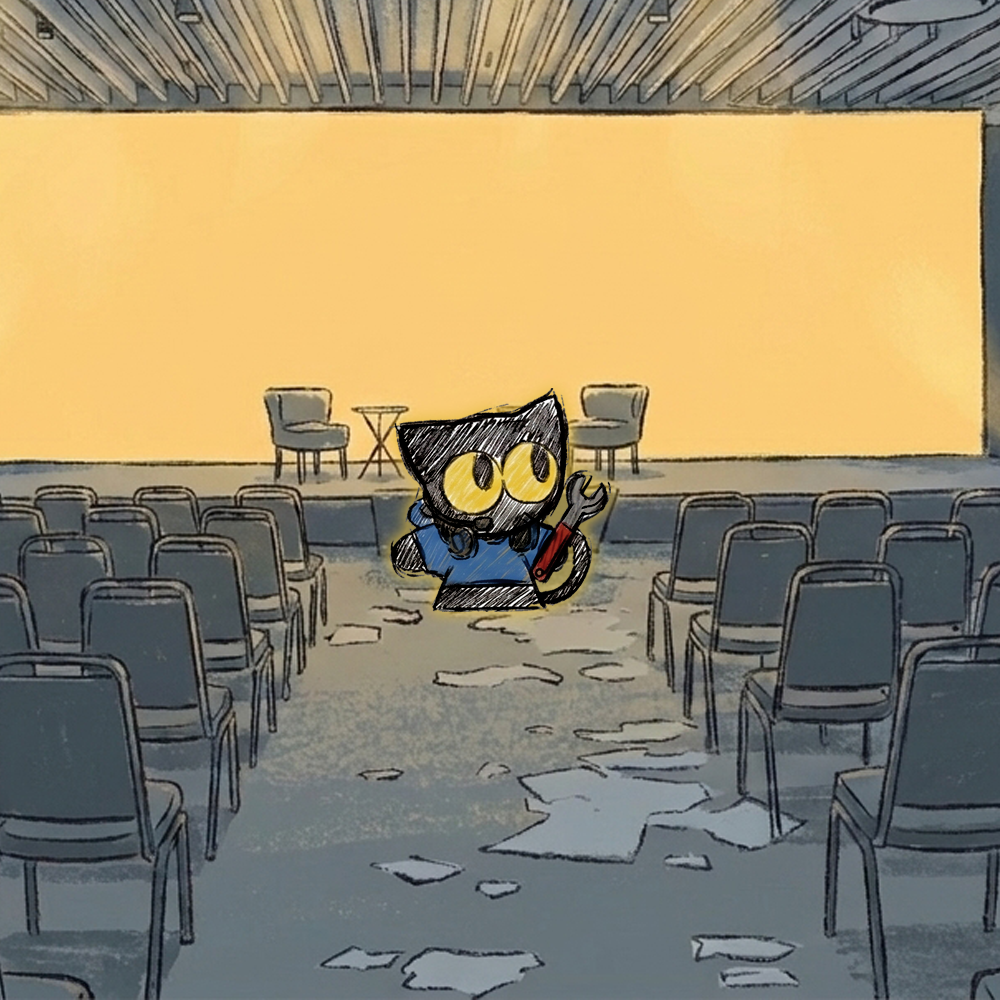
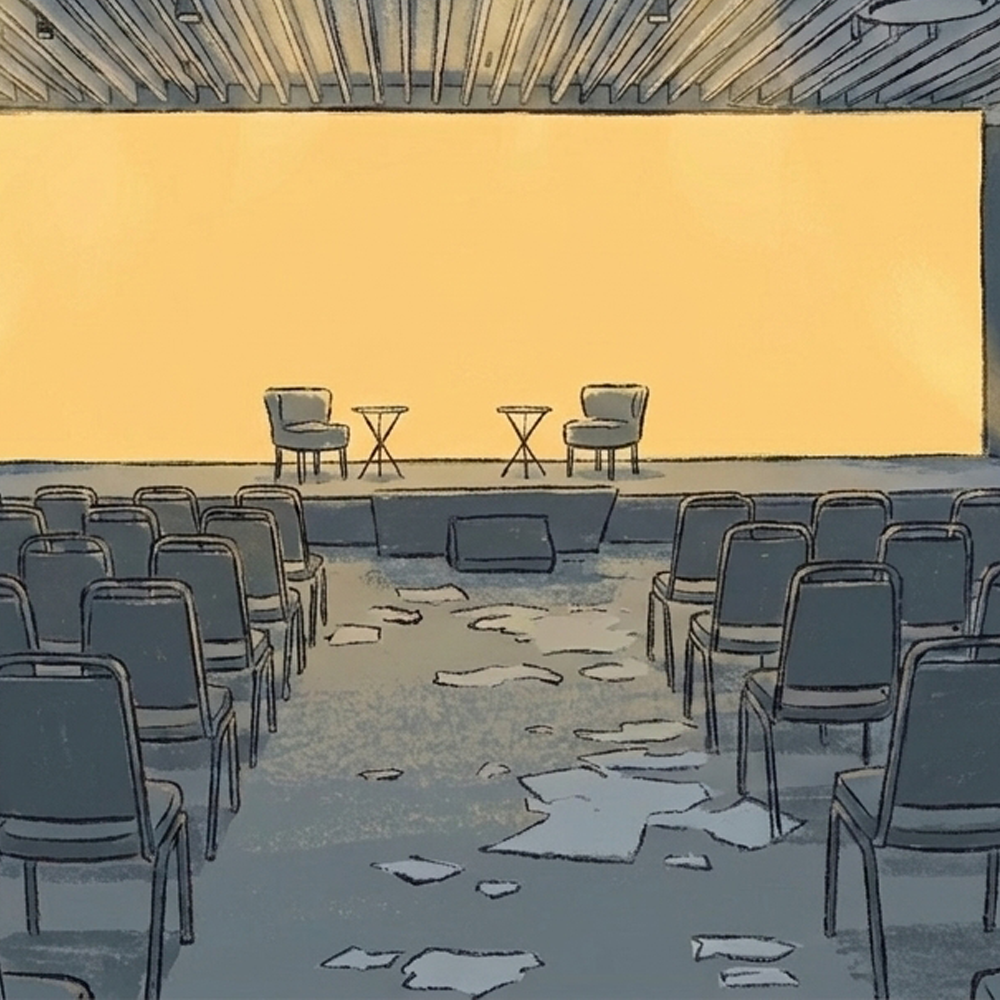
Add idle player animation and correct stage 3 bg

Changed region(s): [[0.372, 0.372, 0.62, 0.62]]

diff --git a/src/GameEngine.js b/src/GameEngine.js
@@ -50,15 +50,32 @@ export class GameEngine {
     this.attackTimer = 0;
 
     // Load player sprites
-    this.playerSprite = new Image();
-    this.playerSprite.src = './src/assets/cat.png';
-    this.playerSpriteLoaded = false;
-    this.playerSprite.onload = () => { this.playerSpriteLoaded = true; };
+    this.playerSprites = [];
+    this.playerSpritesLoaded = 0;
+    const playerImg1 = new Image();
+    playerImg1.src = './src/assets/cat.png';
+    playerImg1.onload = () => { this.playerSpritesLoaded++; };
+    
+    const playerImg2 = new Image();
+    playerImg2.src = './src/assets/cat_.png';
+    playerImg2.onload = () => { this.playerSpritesLoaded++; };
+    
+    this.playerSprites = [playerImg1, playerImg2];
+
+    this.playerAnimationTimer = 0;
+    this.playerAnimationFrame = 0;
 
     this.attackSprite = new Image();
     this.attackSprite.src = './src/assets/cat_attack.png';
     this.attackSpriteLoaded = false;
     this.attackSprite.onload = () => { this.attackSpriteLoaded = true; };
+
+    this.clearedSprite = new Image();
+    this.clearedSprite.src = './src/assets/cat_cleared.png';
+    this.clearedSpriteLoaded = false;
+    this.clearedSprite.onload = () => { this.clearedSpriteLoaded = true; };
+
+    this.stageClearTimer = 0;
 
     // Load enemy sprites (2 frames per enemy)
     this.enemySprites = [];
@@ -263,7 +280,17 @@ export class GameEngine {
       return;
     }
 
-    if (this.gameState === 'MENU' || this.gameState === 'STAGE_CLEAR') {
+    if (this.gameState === 'MENU' || this.gameState === 'STAGE_CLEAR' || this.gameState === 'STAGE_CLEARING') {
+      if (this.gameState === 'STAGE_CLEARING') {
+        this.update(dt);
+        this.stageClearTimer -= dt;
+        if (this.stageClearTimer <= 0) {
+          this.gameState = 'STAGE_CLEAR';
+          this.maxUnlockedStage = Math.max(this.maxUnlockedStage, this.storyStage + 1);
+          if (this.onStageClear) this.onStageClear(this.wordsDestroyed);
+        }
+      }
+      this.draw();
       requestAnimationFrame((t) => this.loop(t));
       return;
     }
@@ -283,9 +310,8 @@ export class GameEngine {
 
     if (this.gameMode === 'STORY' && this.wordsSpawned >= this.targetWords && this.words.length === 0) {
       if (this.storyStage < 2) {
-        this.gameState = 'STAGE_CLEAR';
-        this.maxUnlockedStage = Math.max(this.maxUnlockedStage, this.storyStage + 1);
-        if (this.onStageClear) this.onStageClear(this.wordsDestroyed);
+        this.gameState = 'STAGE_CLEARING';
+        this.stageClearTimer = 2.0;
       } else {
         this.gameState = 'WIN';
       }
@@ -309,6 +335,13 @@ export class GameEngine {
     this.damageTimer = Math.max(0, this.damageTimer - dt);
     this.damageElapsed += dt;
     this.attackTimer = Math.max(0, this.attackTimer - dt);
+
+    // Update player animation
+    this.playerAnimationTimer += dt;
+    if (this.playerAnimationTimer >= 1.0) {
+      this.playerAnimationTimer = 0;
+      this.playerAnimationFrame = 1 - this.playerAnimationFrame;
+    }
 
     const cx = this.canvas.width / 2;
     const cy = this.canvas.height / 2;
@@ -362,6 +395,22 @@ export class GameEngine {
   }
 
   draw() {
+    if (this.gameState === 'STAGE_CLEARING') {
+      this.ctx.clearRect(0, 0, this.canvas.width, this.canvas.height);
+      const cx = this.canvas.width / 2;
+      const cy = this.canvas.height / 2;
+
+      if (this.backgroundLoaded) {
+        this.ctx.drawImage(this.backgroundImage, 0, 0, this.canvas.width, this.canvas.height);
+      }
+
+      if (this.clearedSpriteLoaded) {
+        const spriteSize = 120;
+        this.ctx.drawImage(this.clearedSprite, cx - spriteSize / 2, cy - spriteSize / 2, spriteSize, spriteSize);
+      }
+      return;
+    }
+
     this.ctx.clearRect(0, 0, this.canvas.width, this.canvas.height);
     const cx = this.canvas.width / 2;
     const cy = this.canvas.height / 2;
@@ -376,8 +425,8 @@ export class GameEngine {
     const themeGalaxy = document.documentElement.classList.contains('theme-galaxy');
 
     // Draw Player
-    const currentPlayerSprite = (this.attackTimer > 0 && this.attackSpriteLoaded) ? this.attackSprite : this.playerSprite;
-    const playerLoaded = (this.attackTimer > 0) ? this.attackSpriteLoaded : this.playerSpriteLoaded;
+    const currentPlayerSprite = (this.attackTimer > 0 && this.attackSpriteLoaded) ? this.attackSprite : this.playerSprites[this.playerAnimationFrame];
+    const playerLoaded = (this.attackTimer > 0) ? this.attackSpriteLoaded : (this.playerSpritesLoaded === 2);
     
     if (playerLoaded) {
       const spriteSize = 120;
